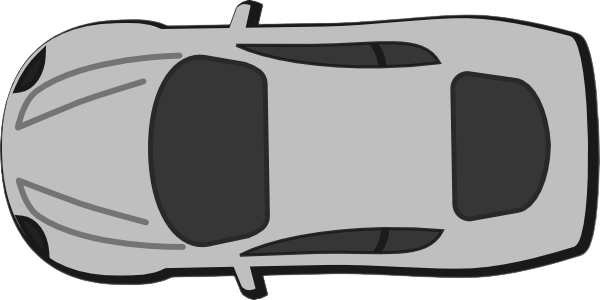
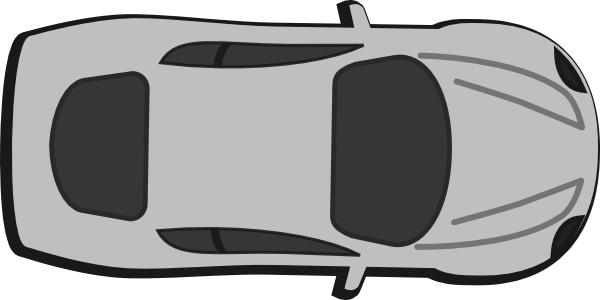
Randomização do modelo do carro e imagem pra roda

diff --git a/game/game.js b/game/game.js
@@ -7,16 +7,22 @@ const Engine = Matter.Engine,
     Mouse = Matter.Mouse,
     MouseConstraint = Matter.MouseConstraint;
 
-var pontos1 = 0, pontos2 = 0, wheels1, wheels2; acellaration1 = 0, acellaration2 = 0;
-
+var pontos1 = 0, pontos2 = 0, wheel, wheels1, wheels2; acellaration1 = 0, acellaration2 = 0, randomAux1 = 0, randomAux2 = 0;
 const drawBody = Helpers.drawBody;
 var engine;
-
+var carImages = [];
 var left1, left2, right1, right2, up, bottom, disco, gol1, gol2;
 var car1, car2;
 var carImage1, carImage2;
 
 function setupGame() {
+    randomAux1 = Math.floor(random(10));
+    carImage1 = carImages[randomAux1];
+    randomAux2 = Math.floor(random(10));
+    while(randomAux2==randomAux1){
+        randomAux2 = Math.floor(random(10));
+    }
+    carImage2 = carImages[randomAux2];
     createCanvas(windowWidth, windowHeight);
     wheels1 = 0;
     wheels2 = 0;
@@ -32,7 +38,7 @@ function setupGame() {
     right2 = Bodies.rectangle(windowWidth - 25, 5 * windowHeight / 6, 50, windowHeight / 3, { restitution: 1, isStatic: true, friction: 0 });//right
     up = Bodies.rectangle(windowWidth / 2, 25, windowWidth - 100, 50, { restitution: 1, isStatic: true, friction: 0 });//top
     bottom = Bodies.rectangle(windowWidth / 2, windowHeight - 25, windowWidth - 100, 50, { restitution: 1, isStatic: true, friction: 0 });//down
-    disco = Bodies.circle(windowWidth / 2, windowHeight / 2, 50, { restitution: 1, frictionAir: 0, friction: 0, density: 0.00001, name: 'disco', mass: 1 });
+    disco = Bodies.circle(windowWidth / 2, windowHeight / 2, 50, { restitution: 1, frictionAir: 0, friction: 0, density: 0.00001, name: 'disco', mass: 0.1 });
     car1 = Bodies.rectangle(windowWidth - 100, windowHeight / 2, 80, 50, { restitution: 0.5, friction: 0, frictionAir: 0.03, density: 0.002, mass: 5 });
     car2 = Bodies.rectangle(100, windowHeight / 2, 80, 50, { restitution: 0.5, friction: 0, frictionAir: 0.03, density: 0.002, mass: 5 });
     World.add(engine.world, [left1, right1, left2, right2, up, bottom, disco, gol1, gol2, car1, car2]);
@@ -74,13 +80,24 @@ function resetPoint() { //deixa tudo com estado inicial
     Body.setVelocity(car2, { x: 0, y: 0 });
     Body.setAngle(car1, 0);
     Body.setAngle(car2, 0);
+    Body.setAngle(disco, 0);
     wheels1 = 0;
     wheels2 = 0;
+    Body.setAngularVelocity(disco, 0);
 }
 
 function preload() {
-    carImage1 = loadImage('./assets/grey.png');
-    carImage2 = loadImage('./assets/blue.png');
+    carImages[0] = loadImage('./assets/grey.png');
+    carImages[1] = loadImage('./assets/light_blue.png');
+    carImages[2] = loadImage('./assets/beige.png');
+    carImages[3] = loadImage('./assets/green.png');
+    carImages[4] = loadImage('./assets/orange.png');
+    carImages[5] = loadImage('./assets/pink.png');
+    carImages[6] = loadImage('./assets/blue.png');
+    carImages[7] = loadImage('./assets/purple.png');
+    carImages[8] = loadImage('./assets/red.png');
+    carImages[9] = loadImage('./assets/yellow.png');
+    wheel = loadImage('./assets/wheel.png');
 }
 
 function drawGame() {
@@ -105,9 +122,9 @@ function drawGame() {
     checkCar2Control();
     imageMode(CENTER);
     translate(car1.position.x, car1.position.y);//abaixo sao rotacoes e translacoes para poder alinhar a imagem ao movimento do carro, fazendo com que ela sempre rotacione de acordo com o angulo do body
-    rotate(car1.angle);
+    rotate(car1.angle+PI);
     image(carImage1, 0, 0, 85, 55);
-    rotate(-car1.angle);
+    rotate(-car1.angle-PI);
     translate(-car1.position.x, -car1.position.y);
     translate(car2.position.x, car2.position.y);
     rotate(car2.angle);
@@ -119,6 +136,11 @@ function drawGame() {
     stroke(255, 0, 0);
     line(car1.position.x, car1.position.y, car1.position.x + 30 * cos(car1.angle + wheels1 + PI), car1.position.y + 30 * sin(car1.angle + wheels1 + PI));//mostra a direcao da roda do carro 1
     line(car2.position.x, car2.position.y, car2.position.x + 30 * cos(car2.angle + wheels2), car2.position.y + 30 * sin(car2.angle + wheels2));//mostra a direcao da roda do carro 2
+    translate(disco.position.x, disco.position.y);
+    rotate(disco.angle);
+    image(wheel, 0, 0, 100, 100);
+    rotate(-disco.angle);
+    translate(-disco.position.x, -disco.position.y);
     if (car1.speed > 0.01) {//esse if e por cause que tem um bug que a speed nunca zera de verdade, por causa da conversao dos numeros fracionarios, ai e pra não ficar uma notacao cientifica do tipo 4.28487578283723e-25 ou algo do tipo
         text(Math.round(car1.speed * 60), windowWidth - 50, windowHeight - 30, 30);
     }
